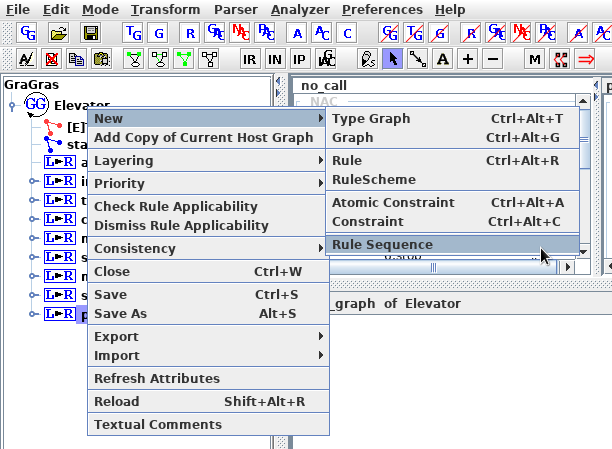
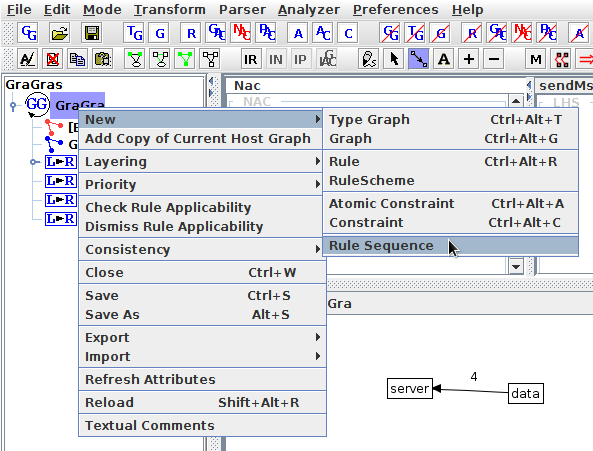
1.0-rc02

Changed region(s): [[0.0, 0.0, 1.0, 1.0], [0.6374, 0.8107, 0.9106, 0.9042]]

diff --git a/title_page_1.tex b/title_page_1.tex
@@ -12,7 +12,17 @@
 \usepackage{url}
 \usepackage{listings}
 \usepackage{minted}
+\usepackage{hyperref}
 \addto\captionsbrazilian{}
+
+\newcommand{\verigraphversion}{1.0-rc02}
+
+
+% Enviroment for grouping text and images in a tutorial step
+
+\newenvironment{tutorialstep}
+	{\hspace{-\parindent}\begin{minipage}{\textwidth}}
+    {\vspace{.3cm}\end{minipage}}
 
 \begin{document}
 
@@ -39,7 +49,7 @@
 \emph{\large{Software specification and verification tool based on graph rewriting}}
 }\\[0.5cm]
 
-Version 1.0-rc01 \\[0.4cm] % Title of your document
+Version \verigraphversion \\[0.4cm] % Title of your document
 \HRule \\[1.0cm]
  
 %----------------------------------------------------------------------------------------
@@ -102,122 +112,219 @@ Rodrigo Machado } \\ [5cm]
 \item GHC (The Glasgow Haskell Compiler) version 8.0.1 or superior
 \item AGG (The Attributed Graph Grammar System) version 2.1: Download at \url{http://www.user.tu-berlin.de/o.runge/agg/}
 \item Cabal 1.24 or Stack 1.1.2
-\item Git Version Control System 
+\item Git Version Control System (Optional)
 \end{itemize}
 
 \subsection{On Linux}
 
-Download the source code and checkout the latest stable version:
+\subsubsection{Downloading}
+Download the source code using git and checkout the latest stable version:
 \begin{minted}{bash}
   $ git clone https://github.com/Verites/verigraph.git
   $ cd verigraph
-  $ git checkout 1.0-rc01
+  $ git checkout 1.0-rc02
 \end{minted}
 
+\noindent
+Or download the \texttt{zip} or \texttt{tar.gz} file at of the version 1.0-rc02 at \url{https://github.com/Verites/verigraph/releases}, extract the file and go the target directory.
+
+\subsubsection{Installing}
 
 If you are using Cabal:
 \begin{minted}{bash}
   $ cabal install
-  $ export PATH=${PATH}:~/.cabal/bin
+  $ PATH=${PATH}:~/.cabal/bin
 \end{minted}
 
+\noindent
 If you are using Stack:
 \begin{minted}{bash}
   $ stack install
-  $ export PATH=${PATH}:~/.local/bin
+  $ PATH=${PATH}:~/.local/bin
 \end{minted}
 
-Add the PATH exportation also in your \texttt{.bashrc}
+You should also set the PATH variable in your \texttt{.bashrc} file, ensuring that the verigraph executables will be found in future sessions, after the previous steps, this can be done by this way:
 
-\subsection{On Windows}
+\begin{minted}{bash}
+  $ echo "export PATH=${PATH}" >> ~/.bashrc
+  $ source ~/.bashrc
+\end{minted}
 
-\subsection{On MacOS}
+%\subsection{On Windows}
 
-\section{Graph Transformation Model}
+%\subsection{On MacOS}
+
+%\section{Graph Transformation Model}
 
 \section{Global Configuration}
 
-By default, \texttt{verigraph} will compute \textit{matches} and \textit{Epi-Pairs} with injective morphisms only, to compute with all kinds of morphisms use the \texttt{--all-matches} flag.
+The rewriting semantics of DPO may restrict matches to monomorphisms (i.e. injective morphisms) or allow arbitrary morphisms. By default, \emph{verigraph} will restrict matches to monomorphisms, but it will allow arbitrary matches if given the \texttt{--all-matches} flag.
+
+Two strategies for satisfability of Negative Application Conditions (NACs) are also provided. By default, only monomorphisms between the NAC object and the instance graph are considered. Alternatively, using the flag \texttt{--partial-injective-nacs}, \emph{verigraph} behaves like AGG and admits the collapsing of elements, as long as they are also collapsed by the match.
+
+Presently, \emph{AGG} is used for creating and reading graph grammar instances and analysis results of \emph{verigraph}, by means of its \texttt{.ggx} and \texttt{.cpx} files. However, \emph{verigraph} does not support some of AGG's features yet, such as:
+
+\begin{itemize}
+\item Edge types with same name but different source and/or target types.
+\item Inheritance
+\item Multiplicity
+\item Attributes
+\end{itemize}
 
 \section{Critical Pair Analysis}
 
+In this section we'll analyze the conflicts and dependencies of the grammar located on \texttt{grammars/Server/server.ggx}, which models the communication between a server and a client. You may want to open it with AGG and familiarize yourself with it.
+
+In order to obtain the conflicts and dependencies of the grammar, run:
+
 \begin{minted}{bash}
-  $ verigraph analysis
+  $ verigraph analysis -o output.cpx grammars/Server/server.ggx
 \end{minted}
+
+\begin{tutorialstep}
+Then open \texttt{output.cpx} with AGG by clicking on one of the options under Analyzer $>$ Critical Pair Analysis $>$ Load. \\
+
+\noindent
+\centering
+\includegraphics[scale = 0.5]{cpa_01.png}
+\end{tutorialstep}
+
+\begin{tutorialstep}
+When asked about adding the grammar to the tree view, click yes. Otherwise, AGG will not display the individual conflicts in detail. \\
+
+\noindent
+\centering
+\includegraphics[scale = 0.6]{cpa_02.png}
+\end{tutorialstep}
+
+\begin{tutorialstep}
+AGG will display matrices indicating the number of conflicts and dependencies between all pairs of rules. In order to visualize the individual conflicts in detail, click on a cell, for example $(4,4)$ in the conflict matrix. \\
+
+\noindent
+\centering
+\includegraphics[scale = 0.5]{cpa_03.png}
+\end{tutorialstep}
+
+\begin{tutorialstep}
+After clicking on the cell, AGG will display the corresponding rules, as well as graphs characterizing the conflicts or dependencies. You may need to rearrange the graphs in order to interpret them. When checking the one conflict between \texttt{deleteMsg} and itself, for example, AGG will show the following graphs, indicating that the conflict occurs when both applications try to delete the same edge between \texttt{data} and \texttt{msg}. \\
+
+\noindent
+\centering
+\includegraphics[scale = 0.5]{cpa_04.png}
+\end{tutorialstep}
 
 \section{Concurrent Rules}
 
-Using \texttt{AGG}, open the file \texttt{grammars/Server/server.ggx}, than right-click on the Grammar $>$ New $>$ Rule Sequence. \\
+\begin{tutorialstep}
+  Using \texttt{AGG}, open the file \texttt{grammars/Server/server.ggx}, then right-click on Grammar $>$ New $>$ Rule Sequence. \\
 
-\noindent
-\includegraphics[scale = 0.6]{rule-sequence_01.png}
+  \noindent
+  \centering
+  \includegraphics[scale = 0.6]{rule-sequence_01.png}
+\end{tutorialstep}
 
-Right-click on the rule sequence created below the rules of the grammar, than click on \texttt{Show/Edit}, a new pop-up must open.\\
+\begin{tutorialstep}
+  Right-click the rule sequence created below the rules of the grammar, then click on \texttt{Show/Edit}, a new pop-up must open.\\
 
-\noindent
-\includegraphics[scale = 0.5]{rule-sequence_02.png}\\
+  \begin{center}
+  \noindent
+  \centering
+  \includegraphics[scale = 0.5]{rule-sequence_02.png}\\
+  \end{center}
+  
+  Click on \texttt{New Subsequence} button, a new row will be created at the \texttt{Select a subsequence} table. Select the subsequence to add the rules to it.
+\end{tutorialstep}
 
-Click on \texttt{New Subsequence} button, a new row will be created at the \texttt{Select a subsequence} table. Select the subsequence to add the rules to it.
+\begin{tutorialstep}
 
-Once the subsequence was selected, we can add any rules in the \texttt{Select a rule} table. Select any rule(s) than click on the \texttt{Add} button, it is possible to add a rule more than once by either clicking on the \texttt{Add} button more than once or altering the number of \texttt{Iterations} for a particular rule in the \texttt{Select a rule} table. Once the rule sequence is defined, click on close and save the file.\\
+  Once the subsequence was selected, we can add rules to the \texttt{Select a rule} table. Select any rule(s) and click the \texttt{Add} button. You may add a rule multiples times or change its number of \texttt{Iterations} to repeat it. Once the rule sequence is defined, click on close and save the file.\\
 
-\noindent
-\includegraphics[scale = 0.6]{rule-sequence_03.png}\\
+  \noindent
+  \centering
+  \includegraphics[scale = 0.6]{rule-sequence_03.png}\\
+\end{tutorialstep}
 
-Now, we can use \texttt{verigraph} to compute the concurrent rule(s) for this rule sequence, the basic structure of the command is:
+Now, we can use \texttt{verigraph} to compute all the concurrent rules for this rule sequence, using the following command:
 
 \begin{minted}{bash}
-  $ verigraph concurrent-rule -o <outputFile>.ggx <inputFile>.ggx
+$ verigraph concurrent-rule -o output.ggx \
+  grammars/Server/server.ggx
 \end{minted}
 
-\subsection{Least disjoint}
+Note that this will generate \emph{all} concurrent rules, which may be a lot (in this particular case 1202 rules), and may take quite some time\footnote{We are currently working on using graph constraints and multiplicity to improve the generation of concurrent rules, reducing the number of spurious rules that are generated.}.
 
-To generate the concurrent rule with the least disjoint epi-pairs between each rule in the sequence run:
+The generated rules are also based on the restriction that matches are always monomorphic. In order to account for arbitrary matches, use the flag \texttt{--all-matches} after the \texttt{verigraph} command.
+
+\subsection{Maximizing Interaction between Rules}
+
+The generated concurrent rules allow for different degrees of interaction between rules, including a parallel rule (where the matched subgraphs are completely disjoint). Sometimes, however, only the concurrent rules with maximum interaction are desired, which may be obtained by the following command:
 
 \begin{minted}{bash}
-  $ verigraph concurrent-rule --max-rule -o output.ggx 
+  $ verigraph concurrent-rule --max-rule -o output.ggx \
     grammars/Server/server.ggx
 \end{minted}
 
-Than open the \texttt{output.ggx} file in \texttt{AGG}, it must have one new rule that looks like this:\\
+\begin{tutorialstep}
+  Then open the \texttt{output.ggx} file in \texttt{AGG}, which should have a new rule that looks like this:\\
 
-\noindent
-\includegraphics[scale = 0.6]{rule-sequence_04a.png}\\
-\noindent
-\includegraphics[scale = 0.6]{rule-sequence_04b.png}\\
+  \noindent
+  \includegraphics[scale = 0.5]{rule-sequence_04a.png}\\
+  \noindent
+  \includegraphics[scale = 0.5]{rule-sequence_04b.png}\\
+\end{tutorialstep}
 
 \subsection{Dependent rules}
 
-To generate the concurrent rules where there are dependencies between the rules in the sequence run:
+Sometimes, maximizing the interaction between rules is an excessively strong restriction. An alternative is generating concurrent rules based on the dependencies between the subsequent rules of a rule sequence. In order to generate such concurrent rules, run:
 
 \begin{minted}{bash}
-  $ verigraph concurrent-rule --all-rules --by-dependency -o output.ggx 
-    grammars/Server/server.ggx
+  $ verigraph concurrent-rule --all-rules --by-dependency -o \ 
+  	output.ggx grammars/Server/server.ggx
 \end{minted}
 
-The output file must have two new rules, one identical (isomorphic) to the one in the previous example, and one other that looks like this:\\
+The output file must have two new rules, the same one as the previous example, and another that looks like this:\\
 
 \noindent
-\includegraphics[scale = 0.5]{rule-sequence_05a.png}\\
+\includegraphics[scale = 0.4]{rule-sequence_05a.png}\\
 \noindent
-\includegraphics[scale = 0.5]{rule-sequence_05b.png}\\
-
-\subsection{Other rules}
-
-To generate all the concurrent rules for this example, run:
-
-\begin{minted}{bash}
-  $ verigraph concurrent-rule -o output.ggx grammars/Server/server.ggx
-\end{minted}
-
-Note this operation may take a while, since it will calculate all possible overlaps between the rules in the sequence (in this particular case 1202 rules)\footnote{We are currently working in graph constraints and multiplicity to improve the generation of concurrent rules}.
-
-All the previous examples were constructed using only injective morphisms, to calculate with all kinds of morphisms use the flag \texttt{--all-matches} after the \texttt{verigraph} command.
+\includegraphics[scale = 0.4]{rule-sequence_05b.png}\\
 
 \section{Second Order}
 
+Although AGG is used for creating the input to \texttt{verigraph}, it does not support second order productions. In order to specify such productions in AGG, we simulate them by using two first order rules, following a naming convention and linking their elements with \emph{Object Names}.\\
+
+{\noindent\centering\includegraphics[scale = 0.5]{objName.png}\\}
+
+The Figure above shows how to set an \emph{Object Name} in a graph element (only numbers are accepted).
+The Figure below is a second order production simulated in AGG, the two \emph{pacman} nodes linked have the number 9 in their \emph{Object Name}.
+
+\begin{center}
+\noindent\includegraphics[scale = 0.6]{noViolenceLeft.png}\\
+\noindent\includegraphics[scale = 0.6]{noViolenceRight.png}\\
+\end{center}
+
+The grammar in \texttt{grammars/Pacman/pacman2.ggx} simulates a simple Pacman game.
+This grammar contains the second order production above.
+Running the command below will create a new grammar file where all second order productions are applied once on all possible matches of the first order productions.
+
 \begin{minted}{bash}
-  $ verigraph snd-order
+  $ verigraph snd-order -o output.ggx \
+  	grammars/Pacman/pacman2.ggx
+\end{minted}
+
+The new production below must be on \texttt{output.ggx} file.
+
+{\noindent\centering\includegraphics[scale = 0.5]{kill.png}\\}
+
+\subsection{Inter-level Analysis}
+
+Two new kind analysis arise from inter-level interaction between productions.
+These algorithms are being studied, and their implementations are not considered entirely finished, also it lacks of a support GUI.
+Despite of it, a log with quantitative information is generated running the command below.
+
+\begin{minted}{bash}
+  $ verigraph analysis --snd-order --all-matches \
+  	grammars/Pacman/pacman2.ggx
 \end{minted}
 
 %\section{Model Checking}
